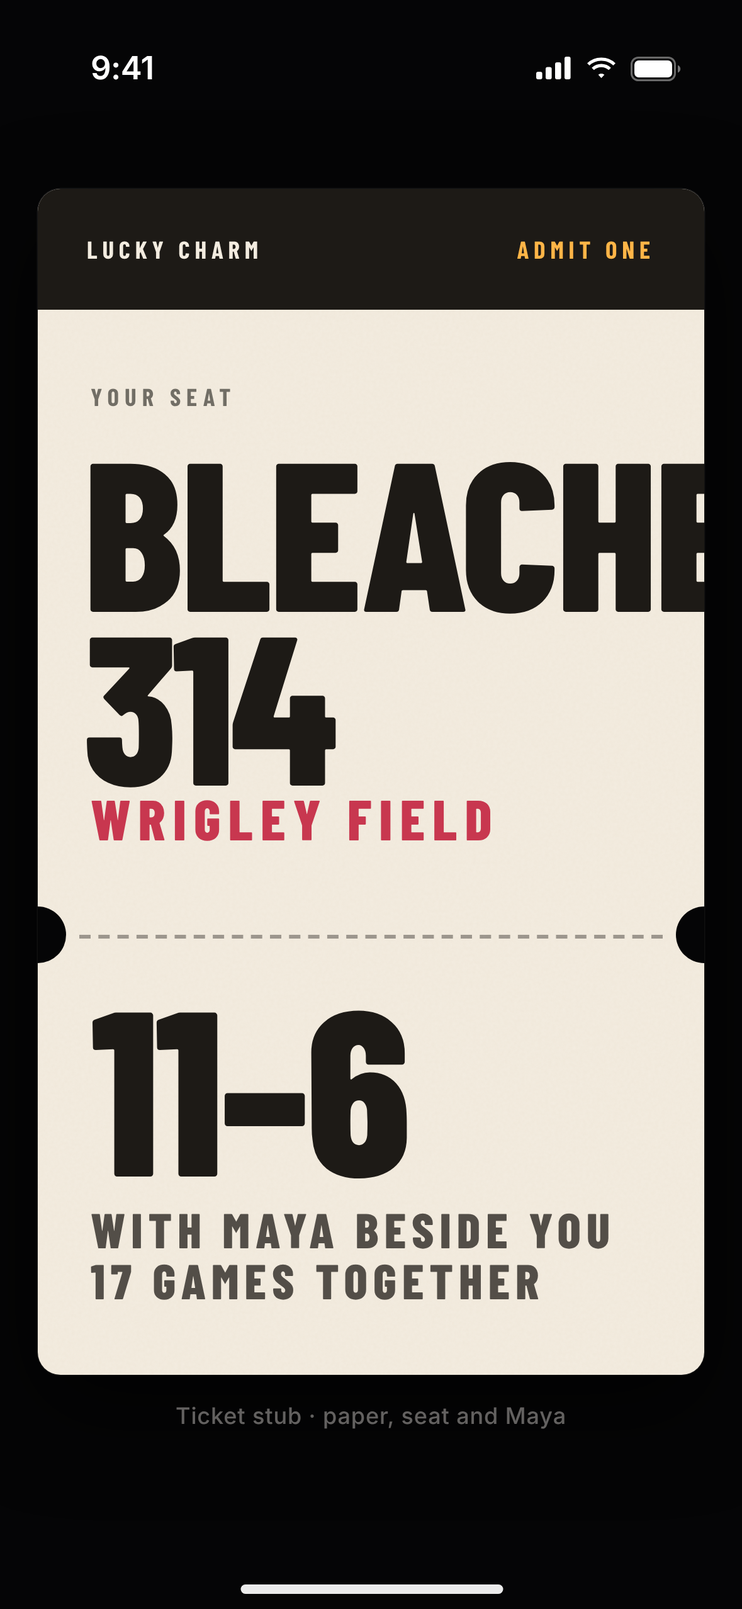
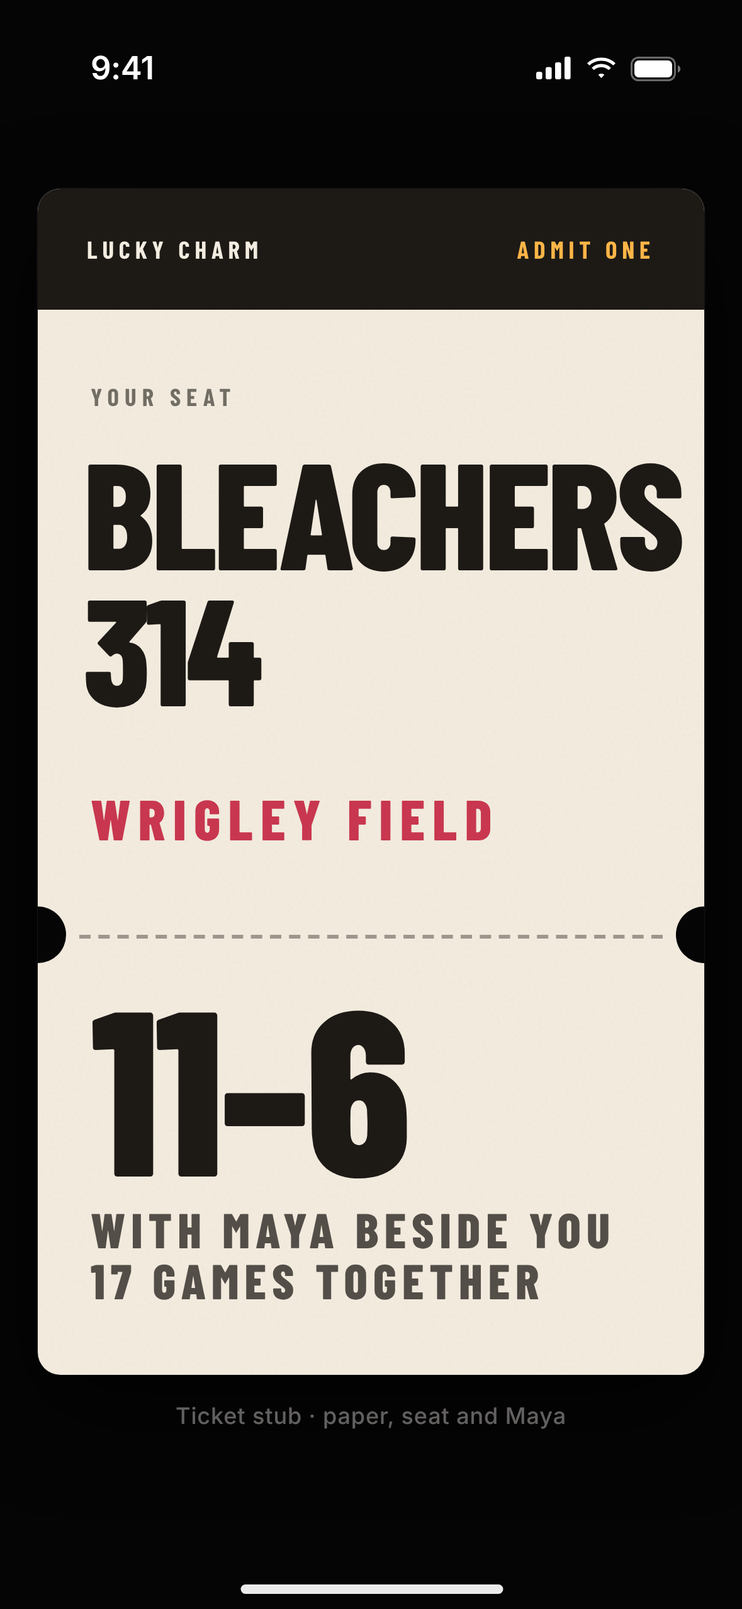
App Store screenshots: UI test for eight screens on iPhone 16 Pro Max, workflow to take them; share and Wrapped mockups
Claude-Session: https://claude.ai/code/session_01YKCsRGYnDsF5Pryete24Wa

Changed region(s): [[0.0916, 0.2782, 0.9466, 0.4945], [0.0916, 0.3091, 0.1221, 0.34]]

diff --git a/mockups/wrapped-revamp/features/wrapped/v1-story-blocks.html b/mockups/wrapped-revamp/features/wrapped/v1-story-blocks.html
@@ -1,0 +1,89 @@
+<!doctype html>
+<html><head><meta charset="utf-8"><title>Story: color blocks</title>
+<link rel="stylesheet" href="../../../kit/kit.css">
+<link rel="stylesheet" href="../../../round2/system/broadcast.css">
+<link rel="stylesheet" href="../../../final/system/final.css">
+<link rel="stylesheet" href="wr.css">
+<style>
+  .s1 { background: var(--orange); --fg:#fff; }
+  .s2 { background: var(--blue); }
+  .s3 { background: #07080a; }
+  .s4 { background: var(--navy); }
+  .s5 { background: var(--amber); --fg: var(--navy); --chip: rgba(11,22,42,.12); }
+  .s1 .strip { --chip: rgba(11,22,42,.16); --on-bg: var(--navy); --on-fg:#fff; }
+  .year { position: absolute; left: 16px; top: 142px; font: 800 172px/.8 var(--b-cond); letter-spacing: -3px; font-variant-numeric: tabular-nums; }
+  .line { position: absolute; left: 20px; right: 20px; font: 800 58px/.9 var(--b-cond); text-transform: uppercase; letter-spacing: -.5px; }
+  .s1 .line { top: 340px; color: var(--navy); }
+  .s1 .strip { position: absolute; left: 0; right: 0; top: 620px; padding-left: 20px; }
+  .s1 .strip { margin-left: 0; }
+  .big { position: absolute; left: 12px; top: 134px; font: 800 244px/.8 var(--b-cond); letter-spacing: -6px; white-space: nowrap; font-variant-numeric: tabular-nums; }
+  .big em { font-style: normal; color: var(--navy); letter-spacing: -2px; }
+  .s2 .claim { position: absolute; left: 20px; width: 320px; top: 372px; font: 800 36px/.95 var(--b-cond); text-transform: uppercase; }
+  .wrow { position: absolute; left: 20px; right: 20px; top: 590px; display: flex; gap: 8px; }
+  .wrow div { flex: 1; text-align: center; }
+  .wrow .tile { height: 56px; border-radius: 10px; background: #fff; color: var(--blue); display: grid; place-items: center; font: 800 30px/1 var(--b-cond); }
+  .wrow span { display: block; margin-top: 8px; font: 700 13px/1 var(--b-cond); letter-spacing: 1px; text-transform: uppercase; color: rgba(255,255,255,.85); }
+  .s3 .big-line { position: absolute; left: 20px; right: 20px; top: 420px; font: 800 60px/.9 var(--b-cond); text-transform: uppercase; letter-spacing: -.5px; }
+  .s3 .meta { position: absolute; left: 20px; right: 20px; top: 620px; display: flex; flex-wrap: wrap; align-items: center; gap: 12px; font: 500 15px/1.3 var(--b-ui); color: rgba(255,255,255,.72); }
+  .miles { position: absolute; left: 16px; top: 134px; font: 800 168px/.8 var(--b-cond); letter-spacing: -3px; font-variant-numeric: tabular-nums; }
+  .unit { position: absolute; left: 20px; top: 288px; font: 800 36px/1 var(--b-cond); letter-spacing: 4px; color: var(--amber); }
+  .route { position: absolute; left: 0; top: 340px; width: 393px; height: 260px; }
+  .route text { font: 700 17px var(--b-cond); letter-spacing: 1.5px; fill: #fff; text-transform: uppercase; }
+  .route .sub { font: 600 14px var(--b-ui); letter-spacing: 0; fill: rgba(255,255,255,.65); text-transform: none; }
+  .s5 .line { top: 150px; }
+  .s5 .strip { position: absolute; left: 0; right: 0; top: 384px; padding-left: 20px; --chip: rgba(11,22,42,.12); --on-bg: var(--navy); --on-fg:#fff; }
+  .s5 .nextcard { position: absolute; left: 20px; right: 20px; top: 260px; height: 96px; border-radius: 14px; background: var(--navy); color: #fff; display: flex; align-items: center; justify-content: space-between; padding: 0 18px; }
+  .s5 .nextcard b { font: 800 54px/1 var(--b-cond); }
+  .s5 .nextcard span { font: 700 16px/1.2 var(--b-cond); letter-spacing: 1px; text-transform: uppercase; text-align: right; color: rgba(255,255,255,.8); }
+</style></head>
+<body class="phone b" data-year="2025">
+<div class="segs"></div>
+
+<section class="slide s1">
+  <div class="year">2025</div>
+  <div class="line">Five games.<br>Five wins.</div>
+  <div class="strip"><b style="margin-left:-40px">2022</b><b>2023</b><b>2024</b><b class="on">2025</b><b>2026</b></div>
+  <div class="sharebtn"><svg class="i" viewBox="0 0 24 24"><path d="M12 15V3M7 8l5-5 5 5M5 13v6a2 2 0 0 0 2 2h10a2 2 0 0 0 2-2v-6"/></svg>Share to story</div>
+</section>
+
+<section class="slide s2">
+  <div class="big">5<em>–</em>0</div>
+  <div class="claim">Chicago won every game you walked into.</div>
+  <div class="wrow">
+    <div><div class="tile">W</div><span>Jan 5</span></div><div><div class="tile">W</div><span>Mar 2</span></div><div><div class="tile">W</div><span>Jun 14</span></div><div><div class="tile">W</div><span>Aug 9</span></div><div><div class="tile">W</div><span>Nov 2</span></div>
+  </div>
+  <div class="sharebtn"><svg class="i" viewBox="0 0 24 24"><path d="M12 15V3M7 8l5-5 5 5M5 13v6a2 2 0 0 0 2 2h10a2 2 0 0 0 2-2v-6"/></svg>Share to story</div>
+</section>
+
+<section class="slide s3">
+  <img class="photo-fill" src="../../../photos/lambeau-concourse.jpg" style="width:1342px;height:900px;max-width:none;left:-380px;top:-300px;filter: contrast(1.05) saturate(.9)">
+  <div class="scrim-b" style="height:560px"></div>
+  <div class="big-line">The kick that went through the snow.</div>
+  <div class="meta"><span class="b-bug"><span class="team" style="--c:#f05a1a">CHI</span><span class="score">24</span></span><span class="b-bug"><span class="team" style="--c:#203731">GB</span><span class="score">22</span></span></div><div class="meta" style="top:668px"><span>Lambeau Field, 19°F, with Maya and Leo</span></div>
+  <div class="sharebtn"><svg class="i" viewBox="0 0 24 24"><path d="M12 15V3M7 8l5-5 5 5M5 13v6a2 2 0 0 0 2 2h10a2 2 0 0 0 2-2v-6"/></svg>Share to story</div>
+</section>
+
+<section class="slide s4">
+  <div class="miles">4,720</div>
+  <div class="unit">MILES</div>
+  <svg class="route" viewBox="0 0 393 260">
+    <path d="M60 190 Q 150 40 276 120" fill="none" stroke="#ffb547" stroke-width="3" stroke-dasharray="2 8" stroke-linecap="round"/>
+    <path d="M276 120 L 300 62" fill="none" stroke="#ffb547" stroke-width="3" stroke-linecap="round"/>
+    <circle cx="60" cy="190" r="8" fill="#fff"/><circle cx="276" cy="120" r="8" fill="#ffb547"/><circle cx="300" cy="62" r="8" fill="#fff"/>
+    <text x="60" y="226">San Francisco</text><text class="sub" x="60" y="246">Jun 14, Oracle Park</text>
+    <text x="196" y="156">Chicago</text>
+    <text x="372" y="56" text-anchor="end" dx="-20">Green Bay</text><text class="sub" x="372" y="76" text-anchor="end" dx="-20">Jan 5</text>
+  </svg>
+  <div class="sharebtn"><svg class="i" viewBox="0 0 24 24"><path d="M12 15V3M7 8l5-5 5 5M5 13v6a2 2 0 0 0 2 2h10a2 2 0 0 0 2-2v-6"/></svg>Share to story</div>
+</section>
+
+<section class="slide s5">
+  <div class="line">That was 2025.</div>
+  <div class="nextcard"><b>2026</b><span>2 games so far<br>2–0</span></div>
+  <div class="strip"><b style="margin-left:-40px">2022</b><b>2023</b><b>2024</b><b class="on">2025</b><b>2026</b></div>
+  <div class="sharebtn dark"><svg class="i" viewBox="0 0 24 24"><path d="M12 15V3M7 8l5-5 5 5M5 13v6a2 2 0 0 0 2 2h10a2 2 0 0 0 2-2v-6"/></svg>Share the full year</div>
+</section>
+
+<script src="wr.js"></script>
+<script src="../../../kit/kit.js"></script>
+</body></html>

diff --git a/mockups/wrapped-revamp/features/wrapped/wr.css b/mockups/wrapped-revamp/features/wrapped/wr.css
@@ -1,0 +1,38 @@
+/* Wrapped revamp shared bits: story chrome, year switcher, year strip, scrubber */
+:root { --orange:#f05a1a; --navy:#0b162a; --blue:#2f6bff; --amber:#ffb547; --wr-cond: var(--b-cond); }
+.cond { font-family: var(--b-cond); font-weight: 800; text-transform: uppercase; font-variant-numeric: tabular-nums; }
+.fit { font-variant-numeric: tabular-nums; }
+svg.i { width: 18px; height: 18px; stroke: currentColor; fill: none; stroke-width: 2.3; stroke-linecap: round; stroke-linejoin: round; flex: none; }
+
+/* story */
+.segs { position: absolute; top: 50px; left: 20px; right: 20px; display: flex; gap: 4px; z-index: 40; }
+.segs i { flex: 1; height: 3px; border-radius: 2px; background: rgba(255,255,255,.3); }
+.segs i.done { background: #fff; }
+.segs i.now { background: linear-gradient(90deg,#fff 55%, rgba(255,255,255,.3) 55%); }
+.slide { position: absolute; inset: 0; display: none; overflow: hidden; --fg:#fff; --chip: rgba(0,0,0,.32); color: var(--fg); }
+.slide.on { display: block; }
+.top { position: absolute; top: 64px; left: 20px; right: 20px; z-index: 30; display: flex; justify-content: space-between; align-items: center; }
+.ys { display: inline-flex; align-items: center; height: 44px; border-radius: 12px; background: var(--chip); color: var(--fg); backdrop-filter: blur(14px); }
+.ys span.a { width: 40px; height: 44px; display: grid; place-items: center; }
+.ys b { font: 800 24px/1 var(--b-cond); letter-spacing: .5px; font-variant-numeric: tabular-nums; padding: 0 2px; }
+.xbtn { width: 44px; height: 44px; border-radius: 12px; display: grid; place-items: center; background: var(--chip); color: var(--fg); }
+.sharebtn { position: absolute; left: 20px; right: 20px; bottom: 50px; height: 54px; background: #fff; color: #000; border-radius: 12px; display: flex; align-items: center; justify-content: center; gap: 8px; font: 800 17px/1 var(--b-cond); letter-spacing: 1.4px; text-transform: uppercase; z-index: 30; }
+.sharebtn.dark { background: var(--navy); color: #fff; }
+
+/* horizontal year strip */
+.strip { display: flex; gap: 8px; -webkit-mask-image: linear-gradient(90deg, transparent 0, #000 7%, #000 93%, transparent 100%); mask-image: linear-gradient(90deg, transparent 0, #000 7%, #000 93%, transparent 100%); overflow: hidden; }
+.strip b { flex: none; height: 44px; min-width: 62px; padding: 0 12px; border-radius: 10px; display: grid; place-items: center; font: 800 20px/1 var(--b-cond); letter-spacing: .5px; font-variant-numeric: tabular-nums; background: var(--chip, rgba(255,255,255,.1)); color: var(--fg,#fff); }
+.strip b.on { background: var(--on-bg, #fff); color: var(--on-fg, #000); }
+
+/* scrubber: bar height = games that year */
+.scrub { display: flex; align-items: flex-end; gap: 4px; height: 64px; }
+.scrub i { flex: 1; border-radius: 2px; background: rgba(255,255,255,.28); min-height: 6px; }
+.scrub i.on { background: #fff; }
+.scrub-lab { display: flex; justify-content: space-between; margin-top: 8px; font: 700 13px/1 var(--b-cond); letter-spacing: 1.5px; color: rgba(255,255,255,.7); font-variant-numeric: tabular-nums; }
+.scrub-lab b { color: #fff; font-weight: 800; }
+
+.photo-fill { position: absolute; inset: 0; width: 100%; height: 100%; object-fit: cover; }
+.scrim-b { position: absolute; inset: 0; background: linear-gradient(180deg, rgba(7,8,10,.55) 0%, rgba(7,8,10,0) 22%, rgba(7,8,10,0) 42%, rgba(7,8,10,.92) 82%, #07080a 100%); }
+.W { display: inline-grid; place-items: center; width: 24px; height: 24px; border-radius: 6px; font: 800 14px/1 var(--b-cond); background: #fff; color: #000; }
+.W.l { background: transparent; color: rgba(255,255,255,.75); box-shadow: inset 0 0 0 1.5px rgba(255,255,255,.4); }
+.team { background: var(--c,#333); color:#fff; }

diff --git a/mockups/share-variants/features/trip/v2-route-paper.html b/mockups/share-variants/features/trip/v2-route-paper.html
@@ -12,8 +12,8 @@ body{background:#07080a;color:#fff;font-family:var(--f-ui);-webkit-font-smoothin
 .card{background:#f3ece0}
 .eyebrow{left:22px;top:22px;font:500 12px/1 var(--f-mono);letter-spacing:2px;text-transform:uppercase;color:rgba(27,23,18,.6)}
 .fade{left:0;right:0;bottom:0;height:300px;background:linear-gradient(180deg,rgba(243,236,224,0),#f3ece0 52%)}
-.big{left:22px;bottom:104px;font:400 112px/.8 var(--f-dm);color:#1b1712;letter-spacing:-3px}
-.dates{left:24px;bottom:78px;font:500 13px/1 var(--f-mono);letter-spacing:1px;color:rgba(27,23,18,.6)}
+.big{left:22px;bottom:112px;font:400 112px/.8 var(--f-dm);color:#1b1712;letter-spacing:-3px}
+.dates{left:24px;bottom:72px;font:500 13px/1 var(--f-mono);letter-spacing:1px;color:rgba(27,23,18,.6)}
 .stats{left:24px;right:24px;bottom:22px;display:flex;border-top:1.5px solid #1b1712;padding-top:10px;color:#1b1712}
 .stats div{flex:1}
 .stats b{font:400 30px/1 var(--f-dm)} .stats span{font:500 12px/1 var(--f-mono);letter-spacing:1px;text-transform:uppercase;color:rgba(27,23,18,.6);margin-left:6px}
@@ -35,7 +35,7 @@ body{background:#07080a;color:#fff;font-family:var(--f-ui);-webkit-font-smoothin
 const topo=window.__atlas['countries-110m'];
 const all=topojson.feature(topo,topo.objects.countries).features;
 const spain=all.find(f=>f.properties&&f.properties.name==='Spain');
-const proj=d3.geoMercator().center([-2.4,40.2]).scale(1420).translate([176,250]);
+const proj=d3.geoMercator().center([-1.6,40.4]).scale(2000).translate([176,235]);
 const path=d3.geoPath(proj);
 const svg=d3.select('#map');
 const P={"sea": "#f3ece0", "grat": "rgba(60,45,20,.12)", "spain": "#e6d9bf", "other": "#ece2cd", "coast": "#8a7650", "flight": "rgba(40,30,15,.5)", "route": "#d97a00", "stop": "#1b1712", "t1": "#1b1712", "t2": "rgba(27,23,18,.7)"};
@@ -56,9 +56,9 @@ svg.append('circle').attr('cx',v[0]).attr('cy',v[1]).attr('r',5.5).attr('fill',P
 function lab(p,dx,dy,anchor,t1,t2){const g=svg.append('g').attr('transform',`translate(${p[0]+dx},${p[1]+dy})`);
  g.append('text').text(t1).attr('text-anchor',anchor).attr('font-family','Barlow Condensed').attr('font-weight',800).attr('font-size',22).attr('letter-spacing',.6).attr('fill',P.t1).style('text-transform','uppercase');
  g.append('text').text(t2).attr('y',20).attr('text-anchor',anchor).attr('font-family','Barlow Condensed').attr('font-weight',700).attr('font-size',17).attr('letter-spacing',.6).attr('fill',P.t2).style('text-transform','uppercase');}
-lab(b,-4,-40,'end','Camp Nou','Barcelona 5, Eibar 0');
-lab(m,-18,-52,'start','Bernabéu','Real Madrid 2, Barcelona 0');
-lab(v,16,34,'start','Valencia','');
+lab(b,-4,-44,'end','Camp Nou','Barcelona 5, Eibar 0');
+lab(m,60,40,'end','Bernabéu','Madrid 2, Barcelona 0');
+lab(v,16,10,'start','Valencia','');
 
 </script>
 <script src="../../../kit/kit.js"></script>

diff --git a/mockups/share-variants/features/trip/v1-route-dark.html b/mockups/share-variants/features/trip/v1-route-dark.html
@@ -35,7 +35,7 @@ body{background:#07080a;color:#fff;font-family:var(--f-ui);-webkit-font-smoothin
 const topo=window.__atlas['countries-110m'];
 const all=topojson.feature(topo,topo.objects.countries).features;
 const spain=all.find(f=>f.properties&&f.properties.name==='Spain');
-const proj=d3.geoMercator().center([-2.4,40.2]).scale(1420).translate([176,250]);
+const proj=d3.geoMercator().center([-1.6,40.4]).scale(2000).translate([176,235]);
 const path=d3.geoPath(proj);
 const svg=d3.select('#map');
 const P={"sea": "#0a0c10", "grat": "rgba(255,255,255,.05)", "spain": "#222836", "other": "#13161d", "coast": "#07080a", "flight": "rgba(255,255,255,.4)", "route": "#ffb547", "stop": "#fff", "t1": "#fff", "t2": "rgba(255,255,255,.7)"};
@@ -56,9 +56,9 @@ svg.append('circle').attr('cx',v[0]).attr('cy',v[1]).attr('r',5.5).attr('fill',P
 function lab(p,dx,dy,anchor,t1,t2){const g=svg.append('g').attr('transform',`translate(${p[0]+dx},${p[1]+dy})`);
  g.append('text').text(t1).attr('text-anchor',anchor).attr('font-family','Barlow Condensed').attr('font-weight',800).attr('font-size',22).attr('letter-spacing',.6).attr('fill',P.t1).style('text-transform','uppercase');
  g.append('text').text(t2).attr('y',20).attr('text-anchor',anchor).attr('font-family','Barlow Condensed').attr('font-weight',700).attr('font-size',17).attr('letter-spacing',.6).attr('fill',P.t2).style('text-transform','uppercase');}
-lab(b,-4,-40,'end','Camp Nou','Barcelona 5, Eibar 0');
-lab(m,-18,-52,'start','Bernabéu','Real Madrid 2, Barcelona 0');
-lab(v,16,34,'start','Valencia','');
+lab(b,-4,-44,'end','Camp Nou','Barcelona 5, Eibar 0');
+lab(m,60,40,'end','Bernabéu','Madrid 2, Barcelona 0');
+lab(v,16,10,'start','Valencia','');
 
 </script>
 <script src="../../../kit/kit.js"></script>

diff --git a/mockups/share-variants/features/recap/v2-recap-pitch-yellow.html b/mockups/share-variants/features/recap/v2-recap-pitch-yellow.html
@@ -11,7 +11,7 @@ body.phone{background:var(--ink)}
 
 .scr{inset:0;background:linear-gradient(180deg,rgba(0,12,50,.55) 0%,rgba(0,12,50,0) 30%,rgba(0,12,50,.15) 45%,rgba(4,16,60,.88) 74%,#041040 100%)}
 .ring{left:50%;top:210px;width:96px;height:96px;margin-left:-48px;border-radius:50%;background:rgba(255,255,255,.16);border:2px solid rgba(255,255,255,.8);display:grid;place-items:center;backdrop-filter:blur(6px)}
-.big{left:24px;right:24px;top:418px;font:400 62px/1.0 var(--f-anton);text-transform:uppercase;color:#fff;letter-spacing:.2px}
+.big{left:24px;right:24px;top:384px;font:400 54px/1.02 var(--f-anton);text-transform:uppercase;color:#fff;letter-spacing:.2px}
 .big em{font-style:normal;color:#F4E04D}
 
 </style></head><body class="phone" data-chrome="none">
@@ -23,7 +23,7 @@ body.phone{background:var(--ink)}
 <div class="abs kick" style="right:24px;top:26px;color:rgba(255,255,255,.85)">1:52</div>
 <div class="abs ring"><svg viewBox="0 0 24 24" width="38" height="38"><path d="M7 4.5v15l13-7.5z" fill="#fff"/></svg></div>
 <div class="abs big">Three goals.<br><em>One group</em><br>in the stands.</div>
-<div class="abs" style="left:24px;right:24px;top:580px;font:600 15px/1.35 var(--f-ui);color:rgba(255,255,255,.82)">Bosnia and Herzegovina 3, Qatar 1<br><span style="color:rgba(255,255,255,.6);font-weight:500">Lumen Field &nbsp;·&nbsp; Jun 24, 2026</span></div>
+<div class="abs" style="left:24px;right:24px;top:560px;font:600 15px/1.35 var(--f-ui);color:rgba(255,255,255,.82)">Bosnia and Herzegovina 3, Qatar 1<br><span style="color:rgba(255,255,255,.6);font-weight:500">Lumen Field &nbsp;·&nbsp; Jun 24, 2026</span></div>
 
 </div>
 <div class="cap">Recap film. Direction A: photo hero. Treatment 2: pitch level, play ring, yellow</div>

diff --git a/WitnessUITests/WitnessUITests.swift b/WitnessUITests/WitnessUITests.swift
@@ -468,5 +468,55 @@ final class WitnessUITests: XCTestCase {
         XCTAssertTrue(card.waitForExistence(timeout: 10))
         snap("album-timeline")
     }
+
+    // MARK: App Store screenshots
+
+    /// The eight screens for the App Store listing, shot on the biggest iPhone by the `appstore` workflow only.
+    func testAppStoreScreens() throws {
+        try XCTSkipUnless(ProcessInfo.processInfo.environment["APPSTORE"] == "1", "Only the App Store workflow takes these")
+        launch(["-demo"])
+        XCTAssertTrue(app.tabBars.buttons["Timeline"].waitForExistence(timeout: 10))
+        sleep(3)
+        snap("store-01-timeline")
+
+        openGame("mlb-2016-ws5", query: "World Series")
+        XCTAssertTrue(el("game-title").waitForExistence(timeout: 8))
+        sleep(3)
+        snap("store-02-game")
+
+        tap("hero-you-were-there")
+        XCTAssertTrue(el("ywt-hero").waitForExistence(timeout: 8))
+        sleep(3)
+        snap("store-03-match-report")
+        back()
+
+        tab("Passport")
+        sleep(3)
+        snap("store-04-passport")
+
+        tab("Map")
+        XCTAssertTrue(el("map-miles").waitForExistence(timeout: 8))
+        sleep(6)
+        snap("store-05-map")
+
+        tab("Passport")
+        tap("stamp-wrigley")
+        XCTAssertTrue(el("venue-title").waitForExistence(timeout: 8))
+        sleep(4)
+        snap("store-06-venue")
+        back()
+
+        tab("You")
+        sleep(3)
+        snap("store-07-you")
+
+        tab("Timeline")
+        tap("game-card-mlb-2016-ws5")
+        XCTAssertTrue(el("game-title").waitForExistence(timeout: 8))
+        tap("game-menu")
+        tap("game-share")
+        sleep(4)
+        snap("store-08-share")
+    }
 }
 

diff --git a/mockups/wrapped-revamp/features/wrapped/wr.js b/mockups/wrapped-revamp/features/wrapped/wr.js
@@ -1,0 +1,19 @@
+(function () {
+  var s = [].slice.call(document.querySelectorAll('.slide')), seg = document.querySelector('.segs'), cur = 0;
+  var year = document.body.getAttribute('data-year') || '2025';
+  var arrow = function (d) { return '<svg class="i" viewBox="0 0 24 24"><path d="' + d + '"/></svg>'; };
+  s.forEach(function (e) {
+    var t = document.createElement('div'); t.className = 'top noclick';
+    t.innerHTML = '<div class="ys"><span class="a">' + arrow('M15 5l-7 7 7 7') + '</span><b>' + year + '</b><span class="a">' + arrow('M9 5l7 7-7 7') + '</span></div><div class="xbtn">' + arrow('M6 6l12 12M18 6L6 18') + '</div>';
+    e.appendChild(t);
+  });
+  seg.innerHTML = s.map(function () { return '<i></i>'; }).join('');
+  function go(k) {
+    cur = Math.max(0, Math.min(s.length - 1, k));
+    s.forEach(function (e, i) { e.classList.toggle('on', i === cur); });
+    [].forEach.call(seg.children, function (e, i) { e.className = i < cur ? 'done' : i === cur ? 'now' : ''; });
+  }
+  go((parseInt((location.hash || '#1').slice(1), 10) || 1) - 1);
+  window.addEventListener('hashchange', function () { go((parseInt(location.hash.slice(1), 10) || 1) - 1); });
+  document.addEventListener('click', function (e) { if (e.target.closest('.noclick')) return; go(cur + (e.clientX < 120 ? -1 : 1)); });
+})();

diff --git a/mockups/wrapped-revamp/png/wrapped/_sheet.html b/mockups/wrapped-revamp/png/wrapped/_sheet.html
@@ -1,0 +1,12 @@
+<html><head><link rel="stylesheet" href="file:///home/user/SportsApp/mockups/kit/kit.css"><style>
+      html,body{width:auto;height:auto;overflow:visible;background:#0b0b0d;color:#f5f1ea;font-family:Inter,sans-serif}
+      body{padding:64px 72px 72px}
+      h1{font:400 64px/1 'Instrument Serif',serif;letter-spacing:-1px;margin-bottom:10px}
+      p{font:500 18px/1.4 Inter;color:rgba(245,241,234,.55);margin-bottom:40px;max-width:1400px}
+      .row{display:flex;gap:36px}
+      figure{width:393px}
+      img{width:393px;height:852px;border-radius:44px;display:block;box-shadow:0 0 0 1px rgba(255,255,255,.1),0 30px 60px rgba(0,0,0,.6)}
+      figcaption{margin-top:18px;font:500 17px/1.3 Inter;color:rgba(245,241,234,.8)}
+      figcaption b{color:#ffb547;margin-right:6px}
+    </style></head><body><h1>Wrapped revamp</h1><p>Ten structures for a year-in-review that covers every year Sam has games: stories, scrolling reports, year hubs, a poster, a calendar and a comparison.</p><div class="row">
+      <figure><img src="file:///home/user/SportsApp/mockups/wrapped-revamp/png/wrapped/v1-story-blocks.png"><figcaption><b>01</b> Story: color blocks</figcaption></figure></div></body></html>

diff --git a/mockups/share-variants/features/venue/v5-scoreboard-dark.html b/mockups/share-variants/features/venue/v5-scoreboard-dark.html
@@ -14,7 +14,7 @@ body.phone{background:var(--ink);display:block}
 .t{position:absolute;left:24px;top:28px}
 .t .k{font:600 12px var(--f-ui);letter-spacing:1.6px;text-transform:uppercase;color:var(--signal)}
 .t .n{font-size:44px;line-height:1;color:#fff;margin-top:4px}
-.board{position:absolute;left:14px;right:14px;top:128px;height:360px;background:#16382c;border-radius:6px;border:4px solid #0c2219;box-shadow:inset 0 0 40px rgba(0,0,0,.45);padding:16px 14px;display:flex;flex-direction:column;gap:10px}
+.board{position:absolute;left:14px;right:14px;top:120px;height:390px;background:#16382c;border-radius:6px;border:4px solid #0c2219;box-shadow:inset 0 0 40px rgba(0,0,0,.45);padding:16px 14px;display:flex;flex-direction:column;gap:10px}
 .board .hd{display:flex;justify-content:space-between;font:800 15px var(--f-cond);letter-spacing:2px;color:rgba(255,255,255,.85);text-transform:uppercase}
 .rw{flex:1;display:flex;align-items:center;justify-content:space-between;border-top:2px solid rgba(255,255,255,.75);padding-top:6px}
 .rw .l{font:800 24px var(--f-cond);letter-spacing:1px;color:#fff;text-transform:uppercase}

diff --git a/mockups/share-variants/features/trip/v3-photo-dark.html b/mockups/share-variants/features/trip/v3-photo-dark.html
@@ -10,7 +10,7 @@ body{background:#07080a;color:#fff;font-family:var(--f-ui);-webkit-font-smoothin
 .cond{font-family:"Barlow Condensed",sans-serif;text-transform:uppercase}
 
 .photo{left:0;top:0;width:353px;height:628px;object-fit:cover;object-position:46% 82%;filter:saturate(.75) contrast(1.08) brightness(.8)}
-.scrim{inset:0;background:linear-gradient(180deg,rgba(7,8,10,.65) 0%,rgba(7,8,10,0) 24%,rgba(7,8,10,.2) 45%,rgba(7,8,10,.92) 74%,#07080a 100%)}
+.scrim{inset:0;background:linear-gradient(180deg,rgba(7,8,10,.65) 0%,rgba(7,8,10,0) 24%,rgba(7,8,10,.55) 45%,rgba(7,8,10,.92) 74%,#07080a 100%)}
 .eyebrow{left:22px;top:22px;font:700 14px/1 "Barlow Condensed";letter-spacing:2.6px;text-transform:uppercase;color:rgba(255,255,255,.85)}
 .big{left:20px;top:262px;font:800 170px/.8 "Barlow Condensed";letter-spacing:-3px;text-transform:uppercase}
 .sub{left:100px;top:268px;font:800 32px/1.08 "Barlow Condensed";letter-spacing:1.4px;text-transform:uppercase;color:#ffb547}

diff --git a/mockups/share-variants/features/numbers/v6-charm-stub-paper.html b/mockups/share-variants/features/numbers/v6-charm-stub-paper.html
@@ -18,7 +18,7 @@ body.phone{background:var(--ink)}
 .band{position:absolute;left:0;right:0;top:0;height:64px;background:var(--paper-ink);color:var(--paper);display:flex;align-items:center;justify-content:space-between;padding:0 26px}
 .band .eb:last-child{color:var(--signal)}
 .lab{position:absolute;left:28px;font:700 13px/1 var(--f-cond);letter-spacing:3px;text-transform:uppercase;color:rgba(29,26,22,.6)}
-.seat{position:absolute;left:24px;top:134px;font:800 92px/.86 var(--f-cond);letter-spacing:-2px;text-transform:uppercase;white-space:nowrap}
+.seat{position:absolute;left:24px;top:134px;font:800 80px/.9 var(--f-cond);letter-spacing:-2px;text-transform:uppercase;white-space:nowrap}
 .venue{position:absolute;left:28px;top:318px;font:800 30px/1 var(--f-cond);letter-spacing:4px;text-transform:uppercase;color:#c8374f}
 .stub{position:absolute;left:28px;right:28px;top:424px}
 .stub b{display:block;font:800 124px/.8 var(--f-cond);letter-spacing:-2px}

diff --git a/mockups/share-variants/features/recap/v6-ywt-paper-matchline.html b/mockups/share-variants/features/recap/v6-ywt-paper-matchline.html
@@ -51,7 +51,7 @@ e('text',{x:X(749),y:126,'text-anchor':'middle','font-family':'Barlow Condensed'
 e('text',{x:X(815),y:126,'text-anchor':'middle','font-family':'Barlow Condensed','font-weight':800,'font-size':14,fill:'#1d1a16'},"80’");
 e('text',{x:X0,y:146,'font-family':'Barlow Condensed','font-weight':700,'font-size':13,fill:'rgba(29,26,22,.6)'},'10:40 ARRIVAL');
 e('text',{x:X1,y:146,'text-anchor':'end','font-family':'Barlow Condensed','font-weight':700,'font-size':13,fill:'rgba(29,26,22,.6)'},'14:35 LEAVING');
-e('text',{x:X0,y:34,'font-family':'Barlow Condensed','font-weight':800,'font-size':15,fill:'#1d1a16','letter-spacing':1},'104 PHOTOS, 38 DURING PLAY');
+e('text',{x:X0,y:34,'font-family':'Barlow Condensed','font-weight':800,'font-size':15,fill:'#1d1a16','letter-spacing':1},'104 PHOTOS · 38 DURING PLAY');
 
 })();
 </script><script src="../../../kit/kit.js"></script></body></html>
